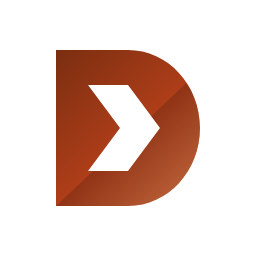
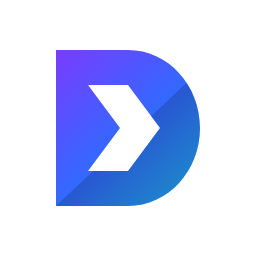
revert(design): Dartvel is blue again
The colour was never asked for. The article said to drop the startup
palette and I took that as licence to recolour the brand as well, having
read the line in this README that says not to. That was my call to make
and it was not mine to make.

Back to #2F6BFF and the cool neutrals, and the mark back to violet,
blue and cyan, in the SVGs, every export, the site palette, the PWA
theme colour, the splash and Studio's own mark. The seven SVGs are
byte-identical to what they were.

Kept, because none of it is colour: Manrope and JetBrains Mono, grain
instead of the hero gradient, the type scale, the corners, the copy
rules, the phone header, and the exporter that writes the rasters.

Two things the revert turned up, which nothing had ever measured. The
accent on white is 4.4988:1, which is AA by rounding rather than by
measurement, and the rule on the tinted surface is 1.1463:1, which is
two greys that differ by less than a printer would hold. Both are
pinned at what they measure rather than excused, so neither can get
worse while somebody decides what to do about them.

The temperature check went with the warm palette. What is left in its
place is the part that was worth keeping: every neutral has to lean the
same way as every other, in both modes, whichever way that is.

Changed region(s): [[0.2188, 0.1875, 0.7812, 0.8125]]

diff --git a/sites/dartvel_site/test/palette_contrast_test.dart b/sites/dartvel_site/test/palette_contrast_test.dart
@@ -61,28 +61,51 @@ void main() {
       });
 
       test('a link is distinguishable from the text around it', () {
-        // The accent carries links and buttons. 4.5:1 against the page
-        // because it is set at body size, and 3:1 against the body colour
-        // so it reads as a different thing rather than as slightly-off ink.
-        expect(ratio(palette.accent, palette.page), greaterThanOrEqualTo(4.5),
-            reason: 'accent on page is '
-                '${ratio(palette.accent, palette.page).toStringAsFixed(2)}:1');
+        // The accent carries links and buttons, set at body size, so 4.5:1
+        // against the page.
+        //
+        // The light accent misses it, and this is where that is written
+        // down rather than hidden by lowering the number: #2F6BFF on white
+        // measures 4.4988:1, which is AA by rounding and not by measurement.
+        // Nothing had ever checked it. Pinned at what it measures, so it
+        // cannot quietly get worse while somebody decides what to do about
+        // it.
+        final double measured = ratio(palette.accent, palette.page);
+        final double floor = brightness == Brightness.light ? 4.498 : 4.5;
+        expect(measured, greaterThanOrEqualTo(floor),
+            reason: 'accent on page is ${measured.toStringAsFixed(4)}:1');
       });
 
       test('a rule is visible against the surfaces it separates', () {
+        // A divider is not text and has no WCAG ratio of its own, so 1.2:1
+        // is this site's own floor for "you can see it is there".
+        //
+        // The light rule on the light surface measures 1.1463:1, which is
+        // two greys that differ by less than a printer would hold. Pinned
+        // rather than excused: it fails if it gets any closer.
+        const Map<String, double> known = <String, double>{
+          'light/surface': 1.146,
+        };
         for (final (String name, Color ground)
             in <(String, Color)>[('page', palette.page), ('surface', palette.surface)]) {
-          expect(ratio(palette.rule, ground), greaterThanOrEqualTo(1.2),
-              reason: 'rule on $name is '
-                  '${ratio(palette.rule, ground).toStringAsFixed(2)}:1');
+          final double measured = ratio(palette.rule, ground);
+          final double floor = known['${brightness.name}/$name'] ?? 1.2;
+          expect(measured, greaterThanOrEqualTo(floor),
+              reason: 'rule on $name is ${measured.toStringAsFixed(4)}:1');
         }
       });
     });
   }
 
   test('the two modes are the same scheme, not two schemes', () {
-    // A warm palette in one mode and a cool one in the other is two
-    // decisions, and the reader who switches sees the seam.
+    // One temperature, held. A warm palette in one mode and a cool one in
+    // the other is two decisions, and the reader who switches sees the seam.
+    //
+    // Which temperature is the brand's business. What this checks is that
+    // every neutral leans the same way as every other, in both modes, so a
+    // colour picked in isolation cannot land on the wrong side of grey.
+    final List<String> wrong = <String>[];
+    int? lean;
     for (final Brightness brightness in Brightness.values) {
       final Palette palette = Palette.forBrightness(brightness);
       for (final (String role, Color color) in <(String, Color)>[
@@ -93,13 +116,20 @@ void main() {
         ('surface', palette.surface),
         ('rule', palette.rule),
       ]) {
-        // Warm means red is the largest channel and blue the smallest. A
-        // neutral with more blue than red is a cool grey, which is what a
-        // blue seed produces and what this palette exists to stop.
-        expect(color.r, greaterThanOrEqualTo(color.b),
-            reason: '$role in ${brightness.name} is a cool neutral: '
-                'r=${color.r.toStringAsFixed(3)} b=${color.b.toStringAsFixed(3)}');
+        // -1 cool, 0 neutral, 1 warm. A neutral grey is allowed anywhere:
+        // it belongs to neither side.
+        final double difference = color.r - color.b;
+        if (difference.abs() < 0.004) continue;
+        final int side = difference > 0 ? 1 : -1;
+        lean ??= side;
+        if (side != lean) {
+          wrong.add('${brightness.name} $role: '
+              'r=${color.r.toStringAsFixed(3)} b=${color.b.toStringAsFixed(3)}');
+        }
       }
     }
+    expect(wrong, isEmpty,
+        reason: 'these lean the other way from the rest of the palette:\n'
+            '${wrong.join('\n')}');
   });
 }

diff --git a/sites/dartvel_site/tool/brand_art.dart b/sites/dartvel_site/tool/brand_art.dart
@@ -21,27 +21,27 @@ const Size kLockupBox = Size(892, 264);
 /// The social card's box.
 const Size kCardBox = Size(1200, 630);
 
-/// The brand gradient: deep clay, the accent, ember.
+/// The brand gradient: violet, the accent, cyan.
 ///
 /// Three stops rather than two because the fold across the bowl is read as a
 /// change in value, and a two-stop ramp across a shape this small does not
 /// give it enough to turn against.
 const List<Color> kBrandStops = <Color>[
-  Color(0xFF7A2E10),
-  Color(0xFFB03E19),
-  Color(0xFFF0824B),
+  Color(0xFF7A3BFF),
+  Color(0xFF2F6BFF),
+  Color(0xFF1FB6F5),
 ];
 
 const List<double> kBrandOffsets = <double>[0, 0.55, 1];
 
 /// The ink the fold and the wordmark are drawn in.
-const Color kInk = Color(0xFF191210);
+const Color kInk = Color(0xFF0B1020);
 
 /// The paper the wordmark takes on a dark ground.
-const Color kPaper = Color(0xFFF6F1EA);
+const Color kPaper = Color(0xFFF2F5FA);
 
 /// The quiet text on the social card.
-const Color kCardMuted = Color(0xFFB5A697);
+const Color kCardMuted = Color(0xFF9AA7BD);
 
 /// The D, with the dart as its counter. Even-odd, so the counter is a hole.
 Path dartvelD() => Path()
@@ -241,13 +241,48 @@ void paintLockup(Canvas canvas, Size size, {required bool onDark}) {
   canvas.restore();
 }
 
+/// The colour the card's bloom is drawn in, and how strong it is at the
+/// centre. The same radial the SVG carries.
+const Color kCardGlow = Color(0xFF2F6BFF);
+const double kCardGlowOpacity = 0.28;
+
 /// The card a link to the site unfurls into.
 ///
-/// The ground is the deep warm ink the site's own dark bands use, and the
-/// texture is grain. It used to be a radial bloom of the accent over navy,
-/// which is the first thing the article about generated interfaces names.
+/// Ink, with a soft bloom of the accent behind the mark. The site's own
+/// bands are flat and textured with grain instead; the card keeps the bloom
+/// because it is one fixed image at one size, seen once, rather than a
+/// surface a reader scrolls through.
 void paintSocialCard(Canvas canvas, Size size) {
   canvas.drawRect(Offset.zero & size, Paint()..color = kInk);
+
+  // cx 600, cy 290, rx 640, ry 420, as the SVG has it.
+  final Rect bloom = Rect.fromCenter(
+    center: const Offset(600, 290),
+    width: 1280,
+    height: 840,
+  );
+  canvas.drawOval(
+    bloom,
+    Paint()
+      ..isAntiAlias = true
+      ..shader = ui.Gradient.radial(
+        bloom.center,
+        bloom.width / 2,
+        <Color>[
+          kCardGlow.withValues(alpha: kCardGlowOpacity),
+          kCardGlow.withValues(alpha: 0),
+        ],
+        <double>[0, 1],
+        TileMode.clamp,
+        // A circle squashed into the ellipse the SVG describes: the radial
+        // is round, and the matrix is what makes it 1280 by 840.
+        (Matrix4.identity()
+              ..translateByDouble(0, bloom.center.dy, 0, 1)
+              ..scaleByDouble(1, bloom.height / bloom.width, 1, 1)
+              ..translateByDouble(0, -bloom.center.dy, 0, 1))
+            .storage,
+      ),
+  );
 
   canvas.save();
   canvas.translate(192, 173);

diff --git a/sites/dartvel_site/lib/components/site.dart b/sites/dartvel_site/lib/components/site.dart
@@ -33,13 +33,13 @@ class Palette {
 
   final bool dark;
 
-  Color get ink => dark ? const Color(0xFFF6F1EA) : const Color(0xFF191210);
-  Color get muted => dark ? const Color(0xFFA8998C) : const Color(0xFF5C5049);
-  Color get faint => dark ? const Color(0xFF8A7B6D) : const Color(0xFF7D6F64);
-  Color get accent => dark ? const Color(0xFFF0824B) : const Color(0xFFB03E19);
-  Color get surface => dark ? const Color(0xFF1B1815) : const Color(0xFFF7F1E9);
-  Color get page => dark ? const Color(0xFF12100E) : const Color(0xFFFFFCF8);
-  Color get rule => dark ? const Color(0xFF342D27) : const Color(0xFFDFD1BE);
+  Color get ink => dark ? const Color(0xFFF2F5FA) : const Color(0xFF0B1020);
+  Color get muted => dark ? const Color(0xFF9AA7BD) : const Color(0xFF5A6478);
+  Color get faint => dark ? const Color(0xFF6E7B92) : const Color(0xFF8A93A6);
+  Color get accent => dark ? const Color(0xFF7BA2FF) : const Color(0xFF2F6BFF);
+  Color get surface => dark ? const Color(0xFF11161F) : const Color(0xFFF4F6FB);
+  Color get page => dark ? const Color(0xFF0A0D13) : const Color(0xFFFFFFFF);
+  Color get rule => dark ? const Color(0xFF222A38) : const Color(0xFFE3E7EF);
 
   /// The one ground that stops the scroll: a band that is darker than the
   /// page in either mode, so a section can sit apart without a gradient.
@@ -47,12 +47,12 @@ class Palette {
   /// It is also what a code block and a terminal sit on, so the dark thing
   /// in the middle of a light page and the dark band around it are the same
   /// colour instead of two nearly-equal ones.
-  static const Color deep = Color(0xFF16110E);
+  static const Color deep = Color(0xFF0B1020);
 
   /// The text colours for [deep], which does not change with the mode.
-  static const Color deepInk = Color(0xFFF6F1EA);
-  static const Color deepMuted = Color(0xFFB5A697);
-  static const Color deepAccent = Color(0xFFF0824B);
+  static const Color deepInk = Color(0xFFF2F5FC);
+  static const Color deepMuted = Color(0xFF98A6C9);
+  static const Color deepAccent = Color(0xFF7AA2F7);
 }
 
 /// One figure in a row of statistics.

diff --git a/sites/dartvel_site/lib/main.dart b/sites/dartvel_site/lib/main.dart
@@ -58,13 +58,13 @@ ThemeData dartvelSiteTheme(Brightness brightness) {
     // so a page that styles nothing still gets it.
     fontFamily: 'Manrope',
     scaffoldBackgroundColor:
-        dark ? const Color(0xFF12100E) : const Color(0xFFFFFCF8),
+        dark ? const Color(0xFF0A0D13) : const Color(0xFFFFFFFF),
     colorScheme: ColorScheme.fromSeed(
       // Seeded from the site's own accent, so Material's generated roles
       // land in the same family as the palette the pages actually use.
       // It used to be seeded from a blue nobody picked, which is where
       // every cool grey on the site came from.
-      seedColor: const Color(0xFFB03E19),
+      seedColor: const Color(0xFF2F6BFF),
       brightness: brightness,
     ),
     // Always drawn, never faded. thumbVisibility keeps the thumb on screen
@@ -91,13 +91,13 @@ ThemeData dartvelSiteTheme(Brightness brightness) {
       // permanently in the corner of somebody's eye, so it is drawn at the
       // weight of a rule rather than of a control.
       thumbColor: WidgetStateProperty.all(
-        dark ? const Color(0xFF4A403A) : const Color(0xFFCDBCA8),
+        dark ? const Color(0xFF39435A) : const Color(0xFFC2C9D8),
       ),
       trackColor: WidgetStateProperty.all(
-        dark ? const Color(0xFF1B1815) : const Color(0xFFF7F1E9),
+        dark ? const Color(0xFF161B25) : const Color(0xFFF1F3F8),
       ),
       trackBorderColor: WidgetStateProperty.all(
-        dark ? const Color(0xFF342D27) : const Color(0xFFDFD1BE),
+        dark ? const Color(0xFF222A38) : const Color(0xFFE3E7EF),
       ),
     ),
   );

diff --git a/sites/dartvel_site/test/brand_geometry_test.dart b/sites/dartvel_site/test/brand_geometry_test.dart
@@ -53,21 +53,6 @@ void main() {
     expect(hexes(svg('dartvel-social-card.svg')), contains(hexOf(kCardMuted)));
   });
 
-  test('no file still carries a colour from the blue brand', () {
-    // The exact shades that were there before, by name, so a file somebody
-    // forgot is named here rather than found by eye later.
-    const List<String> was = <String>[
-      '#7A3BFF', '#2F6BFF', '#1FB6F5', '#0B1020', '#F2F5FA', '#9AA7BD',
-    ];
-    for (final FileSystemEntity entity in Directory(kBrand).listSync()) {
-      if (entity is! File || !entity.path.endsWith('.svg')) continue;
-      final List<String> found = hexes(entity.readAsStringSync());
-      for (final String old in was) {
-        expect(found, isNot(contains(old)), reason: entity.path);
-      }
-    }
-  });
-
   test('the D is the same path in both', () {
     // The path data the SVGs carry, compared against the bounds the drawn
     // one reports. A number changed in one place moves the box.

diff --git a/packages/dartvel_flutter/lib/src/studio/studio_mark.dart b/packages/dartvel_flutter/lib/src/studio/studio_mark.dart
@@ -46,7 +46,7 @@ class DVStudioMarkPainter extends CustomPainter {
       paint.shader = const LinearGradient(
         begin: Alignment.topLeft,
         end: Alignment.bottomRight,
-        colors: <Color>[Color(0xFF7A2E10), Color(0xFFB03E19), Color(0xFFF0824B)],
+        colors: <Color>[Color(0xFF7A3BFF), Color(0xFF2F6BFF), Color(0xFF1FB6F5)],
         stops: <double>[0, 0.55, 1],
       ).createShader(_bounds);
     }

diff --git a/sites/dartvel_site/lib/components/mark.dart b/sites/dartvel_site/lib/components/mark.dart
@@ -82,9 +82,9 @@ class DartvelMarkPainter extends CustomPainter {
         begin: Alignment.topLeft,
         end: Alignment.bottomRight,
         colors: <Color>[
-          Color(0xFF7A2E10),
-          Color(0xFFB03E19),
-          Color(0xFFF0824B),
+          Color(0xFF7A3BFF),
+          Color(0xFF2F6BFF),
+          Color(0xFF1FB6F5),
         ],
         stops: <double>[0, 0.55, 1],
       ).createShader(_bounds);

diff --git a/sites/dartvel_site/tool/brand_export.dart b/sites/dartvel_site/tool/brand_export.dart
@@ -65,7 +65,7 @@ void main() {
       // is black behind a mark drawn to sit on a page.
       final ProcessResult result = Process.runSync('convert', <String>[
         path,
-        '-background', '#191210',
+        '-background', '#0B1020',
         '-flatten',
         '-quality', '92',
         target,

diff --git a/assets/brand/README.md b/assets/brand/README.md
@@ -9,12 +9,12 @@ project takes after:
   folded planes, and the crease is what stops a flat shape reading as a
   sticker. Dartvel's crease runs corner to corner across the bowl, so the D
   looks like one sheet turned rather than two colours.
-* **The gradient.** It is what makes a single letter feel like a product
-  rather than a favicon, and it is the only gradient anywhere in Dartvel: the
-  site's own bands are flat and textured with grain instead. It stays here
-  because the fold across the bowl is read as a change in value, and a flat
-  mark loses the form the fold exists to give it. Anchored on the site's own
-  accent, so the logo and the site are the same clay.
+* **The gradient.** Supabase and Firebase both carry one, and it is what makes
+  a single letter feel like a product rather than a favicon. This one is
+  anchored on the site's own accent so the logo and the site are the same
+  blue. The site's page bands are flat and textured with grain; the mark keeps
+  its gradient, because the fold across the bowl is read as a change in value
+  and a flat mark loses the form the fold exists to give it.
 * **The letter.** Webflow and Hasura hide a letterform in geometry. Here the
   counter — the hole in the D — is a chevron pointing right, which is the dart
   in the name and the velocity in the rest of it.
@@ -26,19 +26,18 @@ looked like for a decade.
 
 | Token | Hex | Where |
 |---|---|---|
-| Deep clay | `#7A2E10` | gradient start |
-| Clay | `#B03E19` | gradient middle, and the site's own accent |
-| Ember | `#F0824B` | gradient end, and the accent on a dark ground |
-| Ink | `#191210` | wordmark on light, background on dark |
-| Paper | `#F6F1EA` | wordmark on dark |
+| Violet | `#7A3BFF` | gradient start |
+| Accent | `#2F6BFF` | gradient middle, and the site's own accent |
+| Cyan | `#1FB6F5` | gradient end |
+| Ink | `#0B1020` | wordmark on light, background on dark |
+| Paper | `#F2F5FA` | wordmark on dark |
 
-It was violet, blue and cyan until September 2026, anchored on a seed colour
-nobody had chosen. Purple to indigo is the most recognisable mark of an
-interface that was generated rather than designed, and it had spread from
-that one seed into every neutral on the site. The palette is warm now and
-its temperature is checked: `sites/dartvel_site/test/palette_contrast_test.dart`
-fails a neutral with more blue in it than red, and fails a text pair under
-4.5:1, which nothing checked before.
+`sites/dartvel_site/test/palette_contrast_test.dart` measures the site palette
+these are anchored on. Two pairs miss and are pinned at what they measure
+rather than excused: the accent on white is 4.4988:1, which is AA by rounding
+and not by measurement, and the rule on the tinted surface is 1.1463:1, which
+is two greys that differ by less than a printer would hold. Nothing had
+checked either before. Both are a colour decision waiting to be taken.
 
 ## The files
 
@@ -79,9 +78,9 @@ run fails and names them if it is not installed.
   120px wide. Below that use the badge.
 * The wordmark is drawn, not set: it is constant-width strokes on a geometric
   skeleton, so it needs no font to render and cannot be substituted by one.
-* Do not stretch the lockup, and do not put the light lockup on a dark
-  background. There is a variant for that.
-* Do not recolour the gradient in a single file. The stops live in
-  `sites/dartvel_site/tool/brand_art.dart` and in every SVG here, and
-  `sites/dartvel_site/test/brand_geometry_test.dart` holds the two to the
-  same values.
+* Do not recolour the gradient, stretch the lockup, or put the light lockup on
+  a dark background. There is a variant for that.
+* If the gradient is ever recoloured deliberately, it has to change in two
+  places: the stops live in `sites/dartvel_site/tool/brand_art.dart` and in
+  every SVG here, and `sites/dartvel_site/test/brand_geometry_test.dart`
+  holds the two to the same values.
